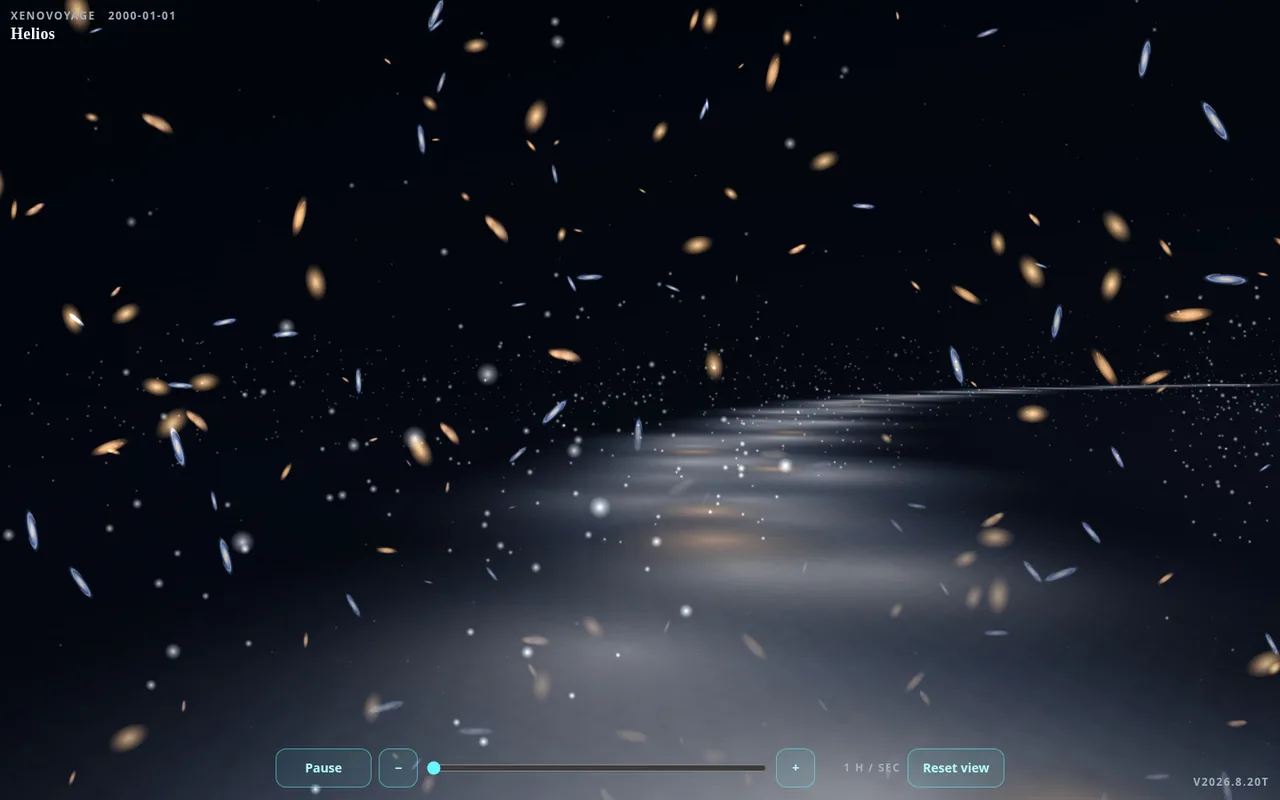
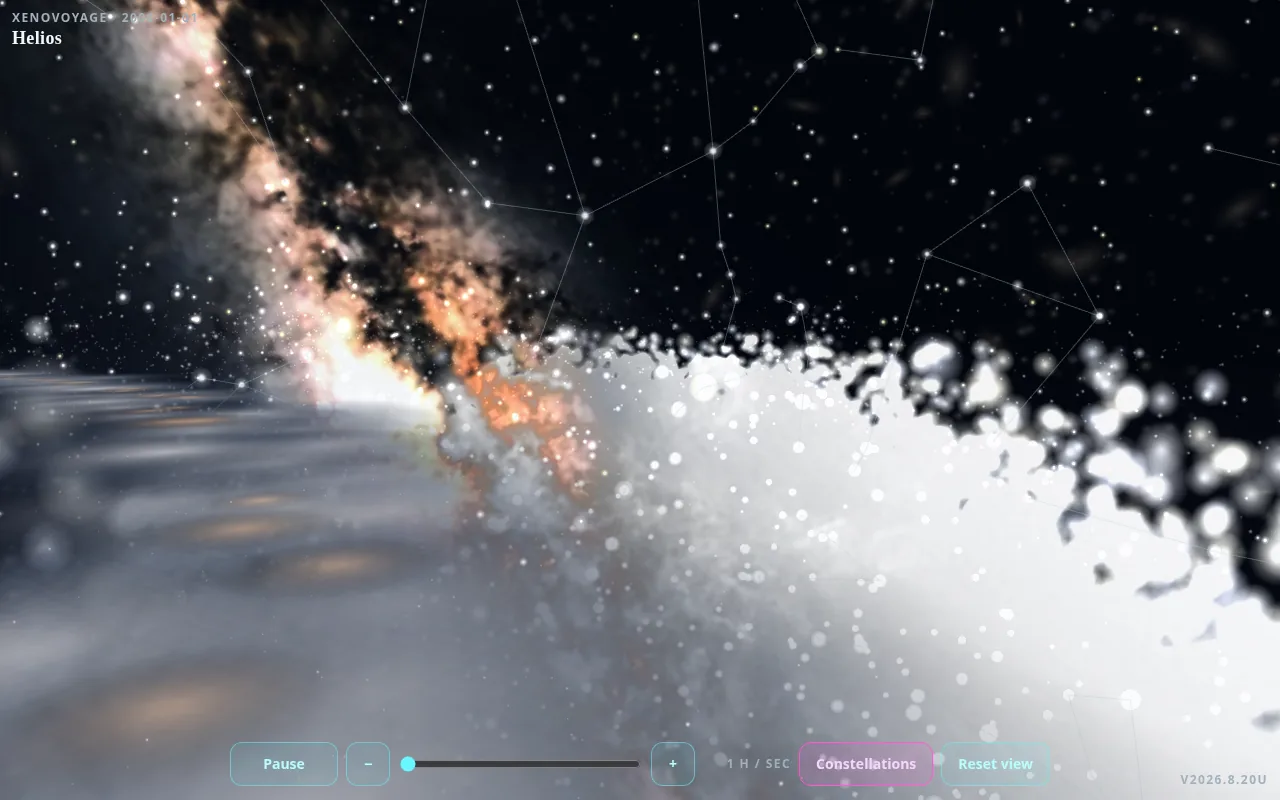
Recapture extra-zoom ride stills
Far-solar sky fills the frame. First extra-zoom is inside the Orion-arm
tail, not a distant plate. Disk, neighborhood, and pre-web stills match
the ride. Web and universe stills are unchanged.

diff --git a/README.md b/README.md
@@ -13,13 +13,19 @@ An interactive 3D orrery of the solar system.
 
 ![Constellation names readable at overview, with Sagittarius and Scorpius labeled.](docs/assets/helios-constellations.webp)
 
-![Milky Way after extra zoom-out: already inside the bright Orion-arm trail, solar sky stronger, before the full disk.](docs/assets/helios-milky-way.webp)
+![Far solar overview: Hipparcos and the Gaia band fill the frame as the camera reaches the solar cap.](docs/assets/helios-solar-far.webp)
+
+![Milky Way after extra zoom-out: already inside the bright Orion-arm trail at the Sun, not a distant plate.](docs/assets/helios-milky-way.webp)
+
+![Full Milky Way disk after leaving the tail, with the galaxy-image sky coming up.](docs/assets/helios-disk.webp)
 
 ![Nearby galaxies on the second scale: bright Andromeda, Triangulum, and the Magellanic Clouds on a galaxy-image sky.](docs/assets/helios-neighborhood.webp)
 
 ![Local Group after a further zoom: M31, M33, the Magellanic Clouds, and a short set of other members.](docs/assets/helios-local-group.webp)
 
 ![Virgo Cluster with the Local Group nearby and more clusters appearing around them.](docs/assets/helios-virgo.webp)
+
+![After Virgo: a denser field of galaxy images before the cosmic web.](docs/assets/helios-preweb.webp)
 
 ![Volume-filling cosmic web: neuron / SDSS filaments through the local volume.](docs/assets/helios-web.webp)
 
